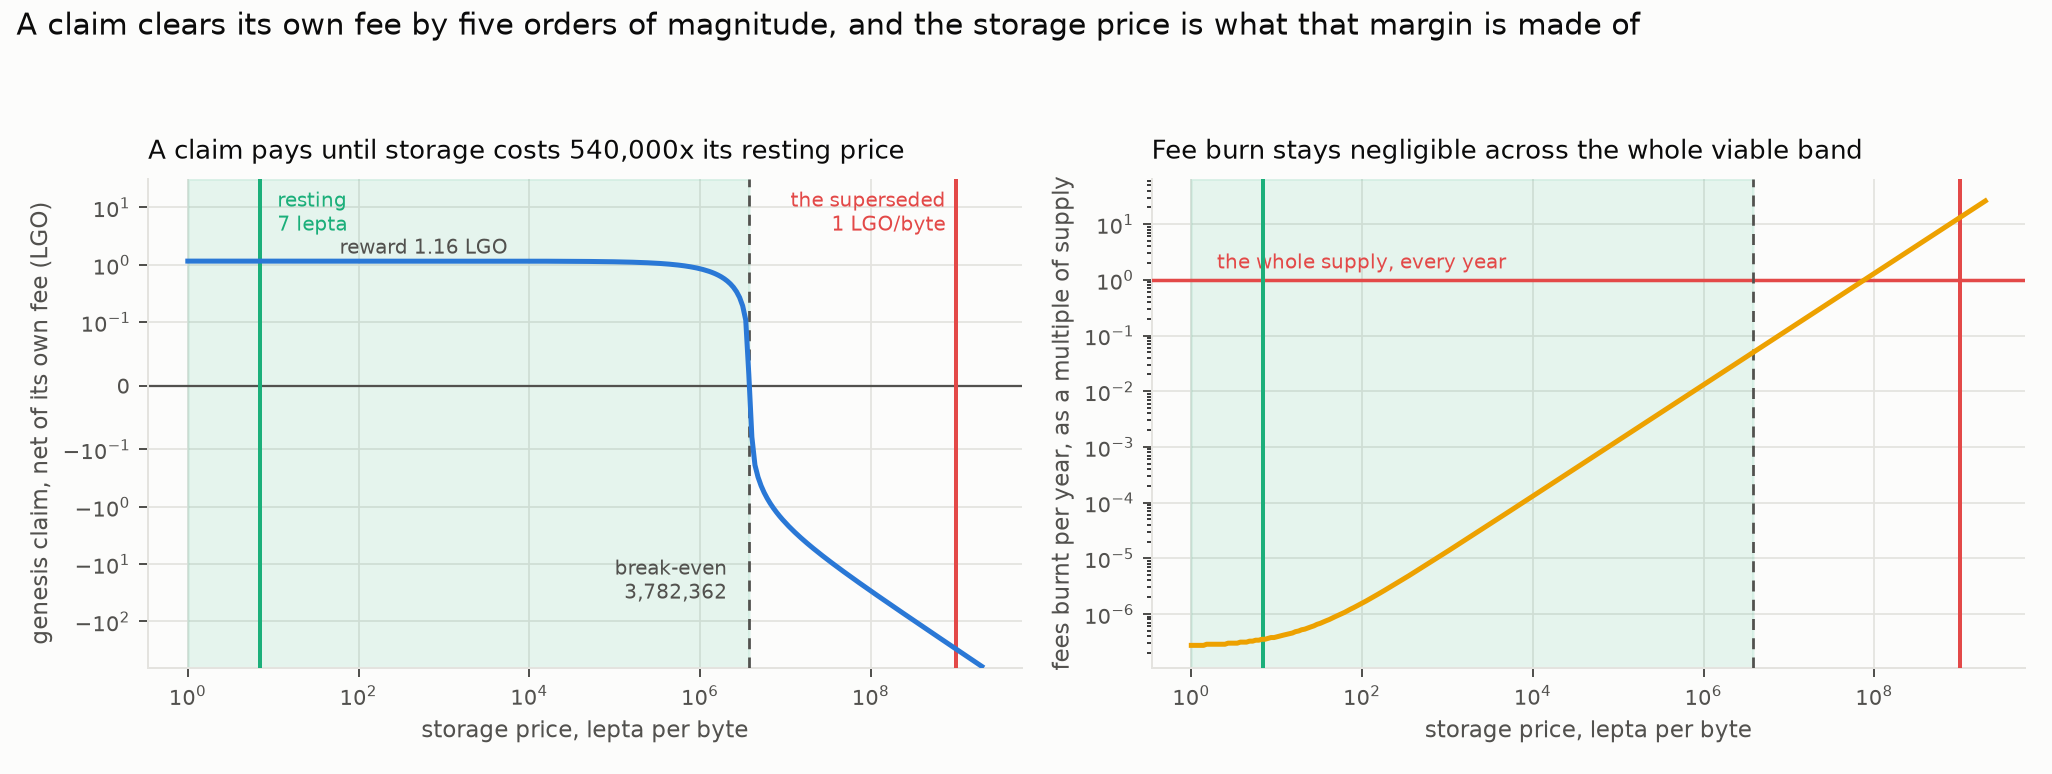
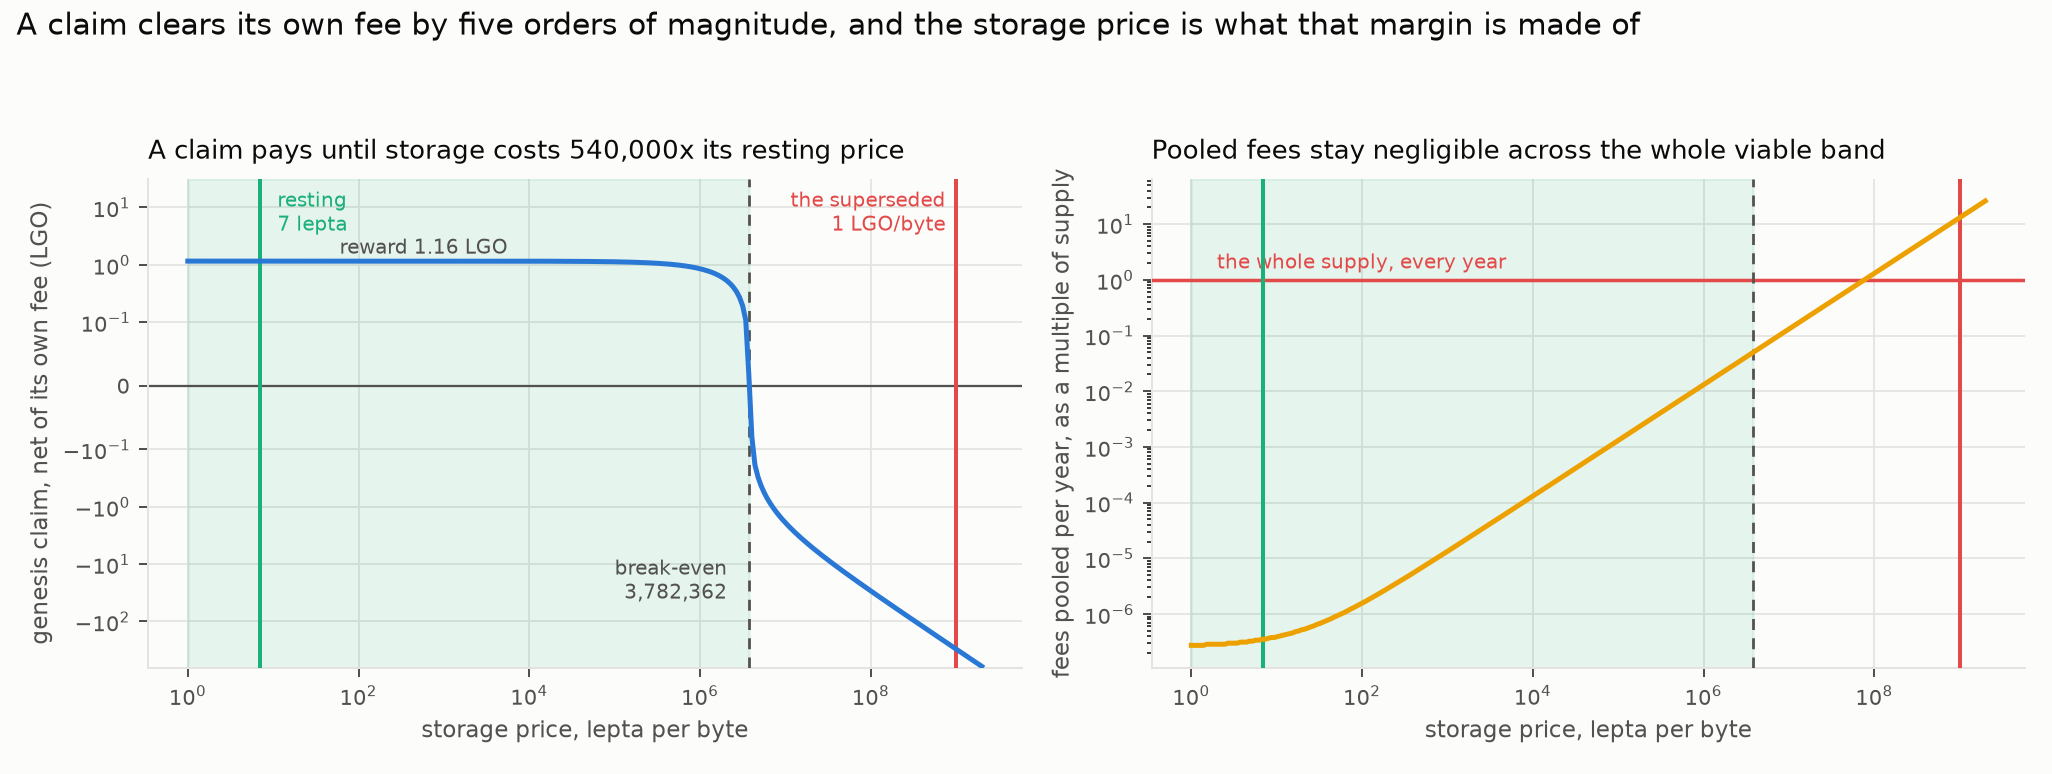
EmPoWering: the report layer onto PR 375, and "in sync" made a checked claim everywhere
The question "are we in sync with PR 375?" had a measured answer for the two
simulator suites and an unmeasured one for everything else. Closed:

* simulations/EmPoWering (the tokenomics model's own codebase) has a drift gate,
  spec_sync, whose whole point is that sync is checked rather than promised. Run
  against clean remote trees it told the truth precisely: its baseline (the
  EmPoWering RFC branch, PR 400) passes 42/42, and overlaying PR 375's
  block-rewards.md broke exactly ONE check -- the S_tge parametrization row the
  PR rewords to the hard cap. The gate now accepts both forms (numerically
  identical at 10^10) and, on a PR-375 tree, additionally pins the new reserve
  lifetime Y = 10. Both trees pass: 42/42 baseline, 43/43 combined. Whichever PR
  merges first, drift lands as a gate failure, not stale prose.
  (The local logos-lips checkout sits on a Blend docs branch, which is why
  checking against it misleads; the trees were fetched from the remote.)

* tokenomics-model.md gains addendum 0.5, its own convention for decisions that
  move beneath it: the one-line translation (read "burnt" as "routed to the
  pending rewards pool" -- removed from circulation, not existence), which
  arguments survive and why (3.4 and 4.4.2 re-founded on circulating supply;
  every ratio argument untouched since both sides ride the same fee flow), the
  4.13 carve-out decision, the PR's windowed-term change being out of the
[…]

diff --git a/simulations/EmPoWering/src/empowering/spec_sync.py b/simulations/EmPoWering/src/empowering/spec_sync.py
@@ -91,9 +91,24 @@ def run(config: str, lips: str) -> int:
           int(p.genesis_pool_fraction * 1000))
 
     rewards = "block-rewards.md"
-    check("S_tge",
-          grab(rewards, r"Token supply at TGE \| (\d+) billion LGO", "supply"),
+    # Two accepted forms: master's parametrization row anchors the supply as S_tge ("Token
+    # supply at TGE"); lips PR 375 removes S_tge and anchors everything to the hard cap
+    # ("Maximum token supply (hard cap)"). Numerically identical at the stated 10^10, so one
+    # config value serves both trees -- the alternation is what keeps this gate green across
+    # the substrate change instead of pinning the sim to one side of an open PR.
+    check("S_tge / S_cap",
+          grab(rewards,
+               r"(?:Token supply at TGE|Maximum token supply \(hard cap\)) \| (\d+) billion LGO",
+               "supply"),
           int(p.S_tge / 1e9))
+    rewards_text = read(rewards)
+    if rewards_text and "Lifetime of the rewards reserve" in rewards_text:
+        # The PR-375 tree only: the reserve-lifetime parameter its Pool Accounting section
+        # introduces. Y = 10 sizes the reserve at I_max * S_cap * Y = 10^9 LGO, which is the
+        # RESERVE_GENESIS the strategy simulator's emission stocks carry.
+        check("Y (reserve lifetime, PR 375)",
+              grab(rewards, r"Lifetime of the rewards reserve[^|]*\| \$(\d+)\$ years", "Y"),
+              10)
 
     blendp = "blend-protocol.md"
     n_b = grab(blendp, r"which translates to \$`([\d,]+)`\$ blocks", "N_b")

diff --git a/reports/EmPoWering/strategies/strategies-report.md b/reports/EmPoWering/strategies/strategies-report.md
@@ -34,23 +34,23 @@ Keeping those two places straight is most of understanding the mechanism.
 | `reward_per_claim = distribution_rate * pool / (target_claims_per_block * blocks_per_epoch)` |
 | --- |
 
-At `distribution_rate = 1/200` and `target_claims_per_block = 10`, that is 216,000 claims an epoch sharing a two-hundredth of the pool. The pool is topped up by diverting a share of transaction fees before they are burnt, `epoch_refill = pow_share * blocks_per_epoch * txs_per_block * avg_tx_fee`, with `pow_share = 10%`. Claiming is not free: the claim transaction pays its own fee, so a miner keeps `reward_per_claim - claim_fee`.
+At `distribution_rate = 1/200` and `target_claims_per_block = 10`, that is 216,000 claims an epoch sharing a two-hundredth of the pool. The pool is topped up from the fee flow — under lips PR 375's pooling substrate, a carve-out from the pending rewards pool that all fees now route into (its first outflow; decided 2026-08-24) — `epoch_refill = pow_share * blocks_per_epoch * txs_per_block * avg_tx_fee`, with `pow_share = 10%`. Claiming is not free: the claim transaction pays its own fee, so a miner keeps `reward_per_claim - claim_fee`.
 
-**Leader rewards — paid from newly minted tokens.** Each block's leader is drawn by lottery, weighted by the stake it holds. There is **no minimum**: a note of any size can win, provided it has been held long enough to have *aged* into the stake snapshot — two epochs, fifteen days. Aging is the only gate, and it matters in §5.
+**Leader rewards — paid from the block-reward release.** Each block's leader is drawn by lottery, weighted by the stake it holds. There is **no minimum**: a note of any size can win, provided it has been held long enough to have *aged* into the stake snapshot — two epochs, fifteen days. Aging is the only gate, and it matters in §5.
 
-**Service rewards — also newly minted, but divided a completely different way.** A node that locks `min_stake = 1,000 LGO` may declare itself a service provider, and the service pool is then split **equally among the providers**:
+**Service rewards — from the same release, but divided a completely different way.** A node that locks `min_stake = 1,000 LGO` may declare itself a service provider, and the service pool is then split **equally among the providers**:
 
 | `reward_per_provider = blend_pool / providers` |
 | --- |
 
 There is no stake term in that formula anywhere. A provider at the bare minimum earns exactly what a provider holding a million tokens earns. Stake is a door, not a dial. Two consequences run through this whole report: holding more than the bond is worth nothing to this stream, and each additional provider dilutes every other one. And it does not taper — below **32 providers** the specification says the reward is not calculated at all.
 
-**What funds the last two.** Leader and service rewards come out of the block reward, which is newly minted tokens. How much is minted is not fixed; a controller steers it by watching how much stake the network has:
+**What funds the last two.** Leader and service rewards come out of the block reward — under PR 375, a metered release from a finite genesis reserve (10⁹ LGO) plus recycled pooled fees, not minting. How much is released is not fixed; a controller steers it by watching how much stake the network has:
 
-| `block_reward = emission_factor * max_minted_per_block + (1 - emission_factor) * burnt_fees` |
+| `block_reward = emission_factor * max_release_per_block + (1 - emission_factor) * pooled_fees_avg` |
 | --- |
 
-The `emission_factor` runs from 1 to 0. At 1 the protocol mints at its ceiling of 95.13 LGO a block and ignores fees. At 0 it mints nothing new and simply re-mints whatever that block burned. What moves it is the gap between the stake the network has and the `stake_target` of 30% of supply: far below target it mints hard to attract stake, and at target it stops. Whatever is minted is split **60% to the Blend service and 40% to the leader**.
+The `emission_factor` runs from 1 to 0. At 1 the protocol releases at its ceiling of 95.13 LGO a block and ignores fees. At 0 it releases nothing and simply distributes back the hour's average of pooled fees (PR 375 replaced the single block's fee with the 120-block window; invisible at flat fees, gated). What moves it is the gap between the stake the network has and the `stake_target` of 30% of the cap: far below target it releases hard to attract stake, and at target it stops. Whatever is paid is split **60% to the Blend service and 40% to the leader**.
 
 In one line: **mining is paid out of a finite pot of old tokens, while leading and providing are paid in new ones — and only while the network is short of stake.**
 
@@ -105,7 +105,7 @@ A word on why the comparison is not straightforward. Groups 1 to 3 arrive with h
 | miner, staker and service provider | 807,612 | **4.93×** |
 | stakeholder and service provider | 930,422 | **5.68×** |
 
-**Service provision dominates by a factor of five and a half**, and structurally rather than because a parameter was set badly: its reward carries no stake term, so the whole Blend pool divides flat among however many providers exist — and that pool is 60% of everything the protocol mints.
+**Service provision dominates by a factor of five and a half**, and structurally rather than because a parameter was set badly: its reward carries no stake term, so the whole Blend pool divides flat among however many providers exist — and that pool is 60% of everything the protocol distributes.
 
 **Staking on top of mining is worth five percent.** A miner who stakes everything it mines earns 52,478 against a pure miner's 50,151. What a miner accumulates in two and a half years is simply small against 5% of supply, so its slice of the lottery is small too.
 
@@ -223,7 +223,7 @@ Mining stops paying only if a token is worth less than about a sixth of a cent; 
 
 ## 9. The full horizon — the mechanism switches itself off
 
-Everything above is a 120-epoch run, which is the bootstrap era. Run it to 2,085 epochs — the whole life of the endowment, about 43 years — and a dynamic appears that a short run structurally cannot show. Minted rewards compound into their holders' stake, and that stake is the very quantity the emission controller steers on. So the rewards drive total stake toward its target, and on reaching it the controller does exactly what it was built to do: it stops minting.
+Everything above is a 120-epoch run, which is the bootstrap era. Run it to 2,085 epochs — the whole life of the endowment, about 43 years — and a dynamic appears that a short run structurally cannot show. Distributed rewards compound into their holders' stake, and that stake is the very quantity the emission controller steers on. So the rewards drive total stake toward its target, and on reaching it the controller does exactly what it was built to do: it stops releasing.
 
 | era | emission factor | block reward | service per provider | proof-of-work pool |
 | --- | --- | --- | --- | --- |
@@ -239,12 +239,12 @@ That table is computed at the **resting** fee price of 7, and the resting price 
 
 | | |
 | --- | --- |
-| price at which a full block's burn equals the minting ceiling | 129,513 |
+| price at which a full block's pooled fees equal the release ceiling | 129,513 |
 | — what that costs one transaction | **0.103 LGO** |
 | blocks of persistently full demand to reach it | **86** (43 minutes) |
 | demand at or below target | **never** — the price is stationary or falls |
 
-**So the equilibrium era is fundable at an entirely ordinary fee**: a tenth of a token per transaction replaces the whole minting ceiling. The eighteen-thousandfold multiple sounds alarming only because it is measured against a price that exists when nobody is transacting. What it is not is guaranteed — the mechanism never drives the fee up on its own, it only tracks demand. **The long-run incentive is a bet on adoption rather than a property of the mechanism.**
+**So the equilibrium era is fundable at an entirely ordinary fee**: a tenth of a token per transaction replaces the whole release ceiling. The eighteen-thousandfold multiple sounds alarming only because it is measured against a price that exists when nobody is transacting. What it is not is guaranteed — the mechanism never drives the fee up on its own, it only tracks demand. **The long-run incentive is a bet on adoption rather than a property of the mechanism.**
 
 ---
 
@@ -297,7 +297,7 @@ Three sweeps, and only one thing overturns the answer.
 
 ## 12. What would change these conclusions
 
-**The stake estimator's real-world bias — not modelled, and in which direction it errs.** The specification's estimator converges to about 0.847 of true stake on a real network, because missed slots and forks depress the block density it reads. This chain is ideal (§1.4), so the simulated estimator converges to true stake and every emission figure here is the intended-emission reading. On the real network the persistent underestimate keeps the minting on longer: §9's switch-off would land later and the late eras would pay somewhat more than shown, in every stream the block reward funds.
+**The stake estimator's real-world bias — not modelled, and in which direction it errs.** The specification's estimator converges to about 0.847 of true stake on a real network, because missed slots and forks depress the block density it reads. This chain is ideal (§1.4), so the simulated estimator converges to true stake and every emission figure here is the intended-emission reading. On the real network the persistent underestimate keeps the release on longer: §9's switch-off would land later and the late eras would pay somewhat more than shown, in every stream the block reward funds.
 
 **Who receives the emission — settled, by the EmPoWering PR itself.** `block-rewards.md` calibrates the maximum emission rate so that "the APY for validation is ~3.33%", which requires validators to receive the whole emission, while `overview-cryptoeconomics.md` gives leaders 0.4 with Blend taking 0.6. Both cannot hold, and the PR settles it in a sentence written for the purpose: *"The split between the Blend service and the leader is itself unchanged: they continue to divide the block reward 60/40."* The PR does not touch `block-rewards.md` at all, so its 3.33% figure is the stale side. The alternative is recorded only because of how much it would have moved: the two shares are complements of one split, so giving leaders everything sets the Blend share to zero — and service rewards *are* Blend rewards. Under that reading the dominant strategy of this report pays nothing and plain staking wins, 5.68× becoming 0.99×.
 

diff --git a/reports/EmPoWering/tokenomics/tokenomics-model.md b/reports/EmPoWering/tokenomics/tokenomics-model.md
@@ -4,7 +4,22 @@
 
 > **Location.** This report lives in `reports/EmPoWering/tokenomics/`; the simulations backing it live in `simulations/EmPoWering/` and regenerate every current number via `make all` (and `make verify`, `make check LIPS=…`). The report was authored alongside logos-lips PR #400 and moved here when that work closed.
 
-## 0.4 Addendum — `EPOCH_POW_DISTRIBUTION_RATE` moves to 1/200 (2026-08-14, latest)
+## 0.5 Addendum — the substrate moves to pooling/distributing/releasing (lips PR 375; 2026-08-24, latest)
+
+Lips PR 375 (`block-rewards.md` 1.1.0, with `execution-market.md`, `storage-markets.md` and the overview propagating; open, one research approval in, planned against head `2b3b698`) replaces the burn/mint substrate this document was written on: fees route **in full into a pending rewards pool** instead of burning, rewards **distribute from that pool topped up by a metered release** from a finite genesis reserve (`B_0 = I_max·S_cap·Y = 10⁹ LGO`, `Y = 10` years) instead of minting, the recycled term becomes the **windowed average** of pooled fees over `T = 120` blocks instead of the latest block's, `S_tge` is removed in favour of the hard cap `S_cap` (numerically identical at 10¹⁰), and the three stocks conserve: `ΔS + ΔP + ΔB = 0`.
+
+**This document is not rewritten under it, and deliberately** — its sections cite `master`'s text and line numbers verbatim and carry their own correction history, which a sweep would destroy. Instead this addendum states the translation once, and what survives it:
+
+- **Read every "burnt/burned/destroyed" below as "routed to the pending rewards pool": removed from *circulation*, not from existence.** Every argument in this document that runs on fees leaving circulation survives unchanged, because pooling removes them from circulation exactly as burning did; what changes is that the removal is banked and reversible rather than final.
+- **§3.4 and §4.4.2 survive with their conclusion re-founded.** The two-regime answer to *who pays* is intact: at `A_t → 1` the diversion is borne by the supply side — now "circulating supply contracts less than it would have" rather than "less is destroyed" — and at `A_t → 0` it comes out of Blend and leader distribution one for one, exactly as written. The sentence "mining slows the deflation rather than adding to inflation" becomes "mining slows the circulating-supply contraction rather than adding release", and §3.4 still comes out clean.
+- **The ratio arguments are untouched.** `reward_over_fee`, the builder edge, the break-even load, the claim-share ceiling and the subordination cap all compare quantities on the same fee flow, which PR 375 reroutes without resizing — the fee-computation formulas of both markets are explicitly unchanged.
+- **The `pow_share` funding question of §4.4.2 gains a decided answer.** PR 375's routing says fees enter the pool "in full", which contradicted the diversion as specified; **decided 2026-08-24: the pool's routing stands and the EmPoWering share is the pool's first outflow** — a carve-out from the pooled reward flow, same magnitude, recorded with its accounting consequences as contradiction 4.13 in the strategy simulator's `CONTRADICTIONS.md`. §1.5 of the EmPoWering RFC itself already describes fee funding in pooling terms ("fees are not burned, and rewards are not minted out of thin air"), so the two RFCs agree in direction; PR 375 supplies the general machinery that prose gestures at.
+- **One mechanism change is real but out of this document's scope**: the windowed recycled term alters the block reward only when `A_t < 1` *and* fees vary within the hour, a regime none of this document's results occupy. It is implemented and gated in the strategy simulator (`emission.py`, contradiction 4.12 for the PR's own real/integer divergence).
+- **Line citations** such as `block-rewards.md:206` ("burned when the block is proposed") and `:178` are to `master` = 1.0.0 and will drift when the PR merges; they are left as the record of what this document was derived against.
+
+The claim "in sync" is checked, not asserted: `make check` now passes against **both** trees — the EmPoWering RFC baseline (42 checks) and that baseline with PR 375's `block-rewards.md` overlaid (43 checks, the added one pinning the reserve lifetime `Y = 10`) — so whichever merges first, drift lands as a gate failure here rather than as stale prose.
+
+## 0.4 Addendum — `EPOCH_POW_DISTRIBUTION_RATE` moves to 1/200 (2026-08-14)
 
 The specification adopts **`distribution_rate` = 1/200** (was 1/100), on this document's own analysis; every other constant stands. The selection criterion was robustness at unchanged economics, and the candidates were the two routes §4.11 identified: (T, `pow_share`) = (11, 11 %) and `distribution_rate` = 1/200. The second dominates:
 

diff --git a/tools/simulators/empowering/docs/REWARD-MODEL.md b/tools/simulators/empowering/docs/REWARD-MODEL.md
@@ -6,6 +6,18 @@ in REWARD-MODEL-extraction-log.txt alongside. -->
 
 # Reward Model of Record — Logos Blockchain
 
+> **Substrate note (2026-08-24).** This extraction records the burn/mint substrate of its
+> source tree. Lips **PR 375** (`block-rewards.md` 1.1.0, open) replaces it with
+> pooling/distributing/releasing: fees route in full into a pending rewards pool, rewards
+> distribute from it topped up by a metered release from a finite genesis reserve
+> (`B_0 = 10⁹ LGO`), the recycled term becomes the windowed average over `T = 120` blocks,
+> and `S_tge` is removed for `S_cap` (numerically identical). The extraction below remains
+> the record of what it read; the differences are implemented and gated in `emission.py` and
+> recorded as contradictions **4.12** (the PR's own real/integer divergence) and **4.13**
+> (the `pow_share` diversion re-founded as the pool's first outflow, decided 2026-08-24).
+> No number this simulator publishes moves under the new substrate; the settled blend pool
+> is pinned by a gate to the LGO.
+
 **Source tree:** `/Users/x/Logos/logos-lips/.claude/worktrees/Bedrock-RFC-EmPoWering/docs/blockchain/raw/`
 All citations below are `file:line` relative to that directory. This document folds in the independent verification of each extraction: invented elements have been removed, wrong citations corrected, missed elements added. Where a verification found an extraction claim to be arithmetically wrong, the corrected number is used and the error is not repeated.
 
